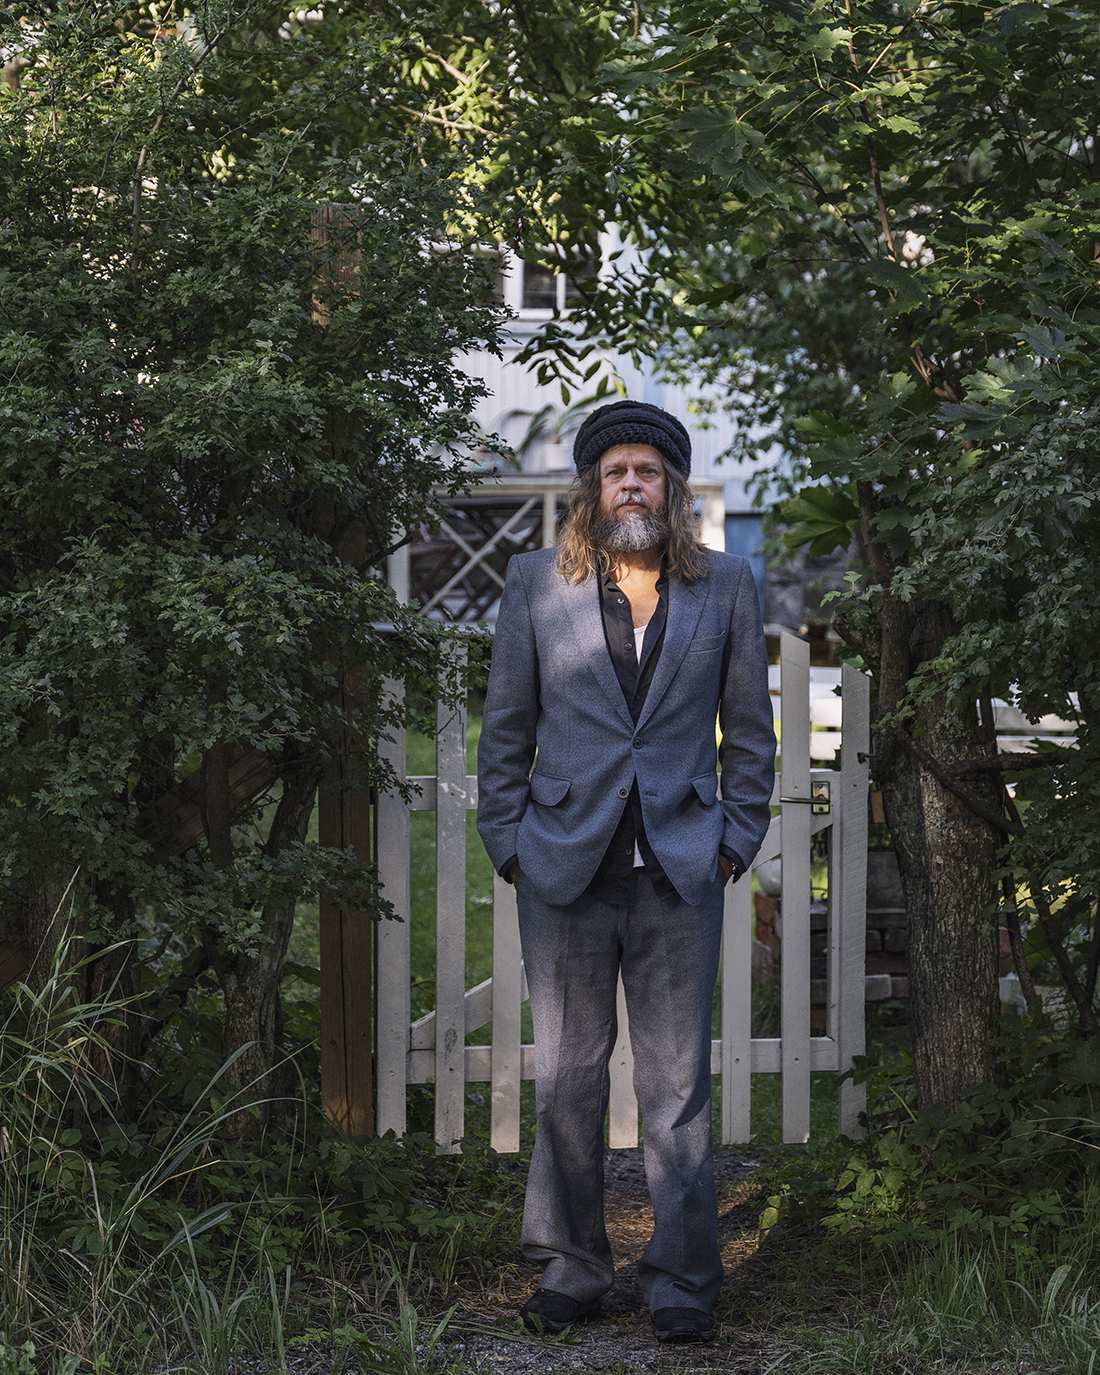
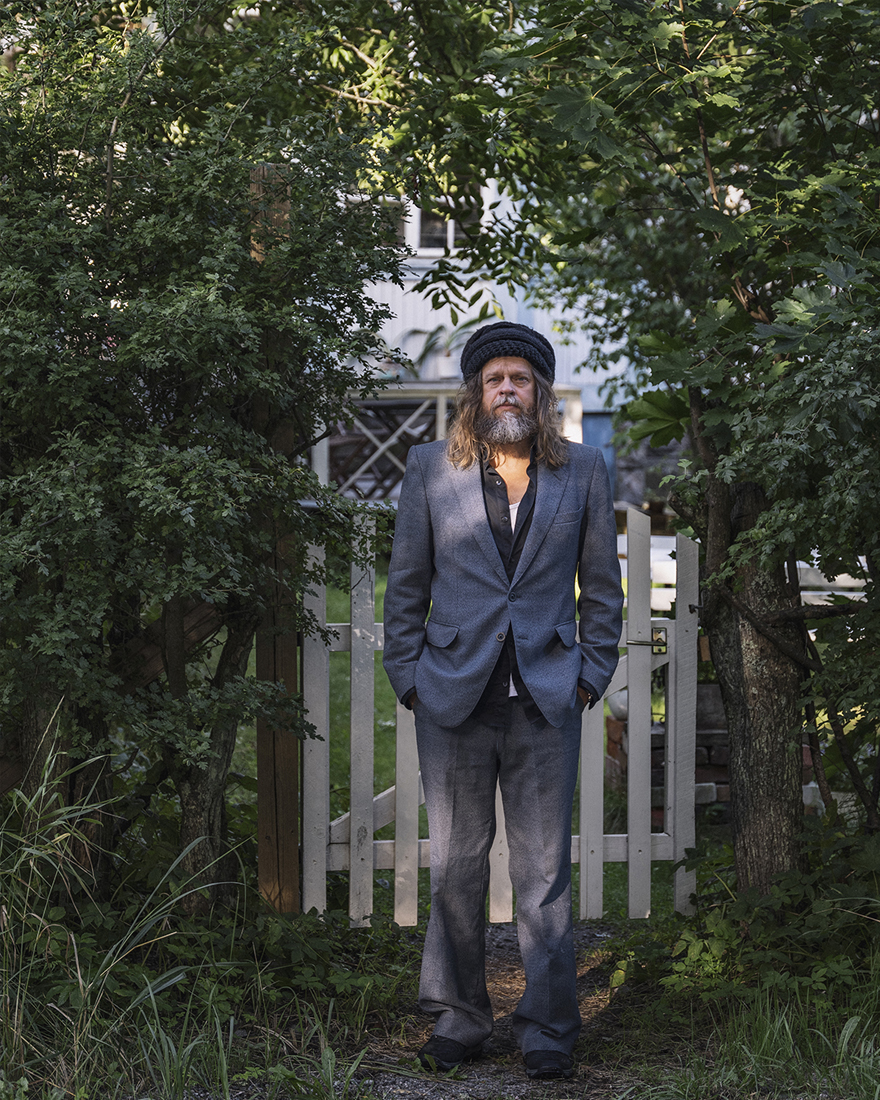
fixed image proportions, fixed grid view spacing and created first draft of front page grid view

Changed region(s): [[0.0, 0.0, 1.0, 1.0], [0.0, 0.6182, 0.0307, 0.6491]]

diff --git a/frontend/src/Grid.js b/frontend/src/Grid.js
@@ -10,26 +10,27 @@ function Grid() {
 
     return(
         <div className="container">
-            <div className="item">Akeem
+            <div className="item">
             <img src={akeem}></img>
             </div>
-            <div className="item">Benjamin
+            <div className="item">
             <img src={benjamin}></img>
             </div>
-            <div className="item">Cecilia
+            <div className="item">
             <img src={cecilia}></img>
             </div>
-            <div className="item">Gustaf
+            <div className="item">
             <img src={gustaf}></img>
             </div>
-            <div className="item">Jori
-            <img src={jori}></img>
-            </div>
-            <div className="item">Tracey
+            <div className="item">
             <img src={tracey}></img>
+            </div>
+            <div className="item">
+            <img src={jori}></img>
             </div>
         </div>
     )
 }
 
 export default Grid;
+

diff --git a/frontend/src/App.css b/frontend/src/App.css
@@ -3,27 +3,25 @@ html {
     height: 100%;
 }
 
-.bg {
-    background-image: url("./images/ak.jpg");
-    height: 100%;
-    background-position: center;
-    background-repeat: no-repeat;
-    background-size: contain;
-}
-
 .container {
-    display: grid;
-    grid-template-columns: 10rem 10 rem 10rem 10rem;
-    grid-gap: 1rem;
-    grid-auto-flow: row;
+    padding-left: 10px;
+    padding-top: 10px;
+    /* display: grid; */
+    display: flex;
+    grid-template-columns: 10rem 10rem 10rem 10rem; 
+    grid-gap: 1rem; 
+    grid-auto-flow: column;
     column-gap: 10px;
-    /* row-gap: 10px;
-    grid-template-columns: 60px;
-    grid-template-rows: 60px; */
+    row-gap: 10px;
+    grid-template-columns: 300px;
+    grid-template-rows: 300px;
+    
+
 }
 
 .item {
-    background-color: blue;
+    background-color: gray;
+    align-self: center;
     
 }
 

diff --git a/frontend/src/App.js b/frontend/src/App.js
@@ -1,4 +1,3 @@
-import akeem from "./images/ak.jpg";
 import './App.css';
 import { BrowserRouter as Router } from "react-router-dom";
 import Grid from "./Grid";
